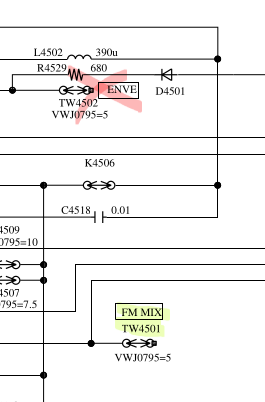
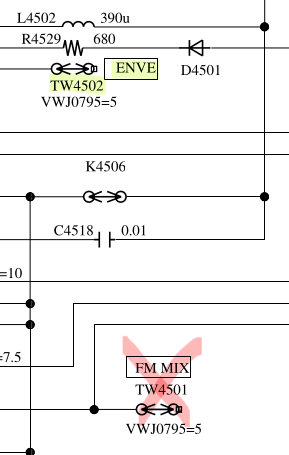
Correct hifi test point

Changed region(s): [[0.0, 0.0, 1.0, 1.0]]

diff --git a/blog/content/The VHS Project.md b/blog/content/The VHS Project.md
@@ -160,13 +160,16 @@ I scanned the pages for something with a label like `ENV`, `VENV` or
 <!-- #TODO: Image of the VCR -->
 
 It actually took a long time to find what I thought were the right test
-points, but I eventually spotted them to be `TW3001` for video and
-`TW4502` for audio. The labeling varies between brands, so make sure to
-read the service manual carefully to ensure you use the right ones.
-I actually used the wrong test point for audio when I first did the
-soldering, I went with the point labelled `ENVE` on the audio circuit,
-but this isn't what we want. In the case of this VCR, there is a
-separate test point labelled `FM MIX`, which the right one to tap.
+points, but I eventually spotted them to be `VIDEO ENV/TW3001` for
+video and `ENVE/TW4502` for audio. The labeling varies between brands,
+so make sure to read the service manual carefully to ensure you use the
+right ones. I actually used the wrong test point for audio when I first
+did the soldering, I went with the point labelled `FM MIX/TW4501` on
+the audio circuit, but this isn't what we want, if you read the manual
+closely you can see that that test point only carries a signal during
+recording. In the case of this VCR, there is a separate test point
+labelled `ENVE/TW4502` right next to `VIDEO ENVE/TW3001`, which the
+right one to tap.
 
 {{
   image(
